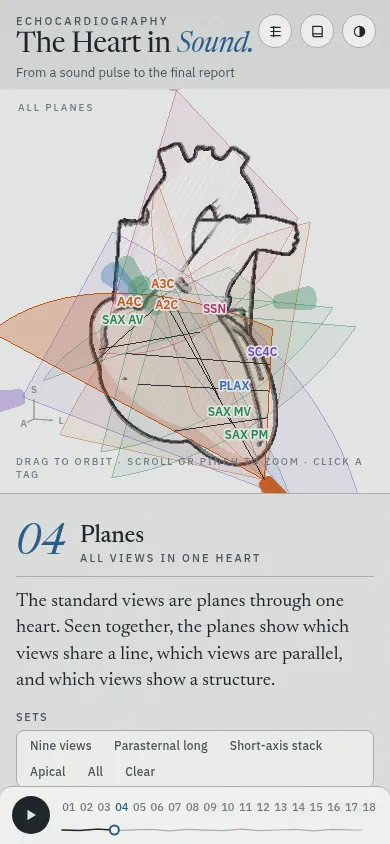
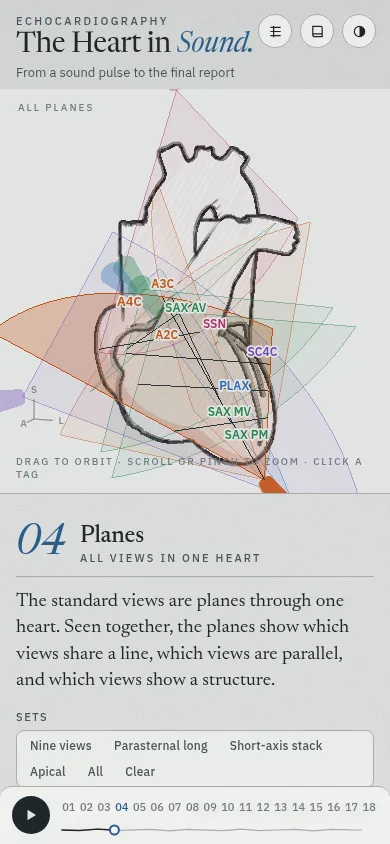
Draw the great-vessel short axis as ASE shows it; turn the aortic valve into place
- The beam now comes from the left sternal border, in front of the aortic
  root. Before, it reached the root from the patient's left side, so the
  image was turned about 50 degrees and the atria sat in the wrong places.
- Aortic valve level: through the shut cusps where they meet, leaning 28
  degrees toward the right and back so it cuts this model's left atrium.
  RVOT in front, tricuspid valve upper left, pulmonic valve right, right
  atrium left, left atrium below, atrial septum between (ASE 2019, 2.8).
- Great-vessel level: 1.4 cm higher, leaning 27 degrees: round aorta, PV,
  trunk and both branches (2.7). Zoomed valve: square to the root, a Y,
  cusps labelled RCC top, LCC right, NCC lower left (2.9).
- The valve model faced its commissures at the coronary origins. It is
  turned 60 degrees about its own axis, so the right coronary cusp faces
  the RVOT and each coronary artery leaves its own sinus; the root's own
  systolic and amyloid motion stays with the root (affine fit).

Claude-Session: https://claude.ai/code/session_01NtQNVy8YQ5NUAw3xwF3MnN

diff --git a/src/echo.js b/src/echo.js
@@ -118,48 +118,61 @@ export function viewGeometry(anat, key) {
       r = perp(perp(bif.clone().sub(pv), n0), d);
       break;
     }
-    case 'psax_av': case 'psax_tv': {
-      // square to the aortic root, through the valve: the three cusps in cross-section
+    case 'psax_av': case 'psax_avz': case 'psax_tv': case 'psax_pa': case 'psax_cor': {
+      // The great-vessel levels (ASE 2019, Table 2, rows 2.7-2.10). The probe lies in front of the
+      // aortic root and a little to its left, at the left sternal border; the beam runs back,
+      // a little to the right and down. Screen-right is the patient's left. Each level is a
+      // plane through the aortic root, turned from square to it where the level needs.
       const n0 = anat.aorticRoot.clone();
-      d = perp(Y.clone().negate(), n0);
-      r = perp(perp(X, n0), d);
-      O = av.clone().addScaledVector(d, -7.4);
-      if (spec.plane === 'psax_tv') {
-        // same plane, the sector steered medially onto the tricuspid valve
-        const t = tv.clone().addScaledVector(n0, -tv.clone().sub(av).dot(n0));
-        d = t.clone().sub(O).normalize();
-        r = perp(perp(X, n0), d);
+      const e1 = perp(BODY.left, n0), e2 = n0.clone().cross(e1);
+      // n0 turned by tilt degrees toward direction az round the root (az 180: the patient's right)
+      const turned = (tilt, az) => {
+        const t = THREE.MathUtils.degToRad(tilt), a = THREE.MathUtils.degToRad(az);
+        return n0.clone().multiplyScalar(Math.cos(t)).addScaledVector(e1, Math.sin(t) * Math.cos(a)).addScaledVector(e2, Math.sin(t) * Math.sin(a)).normalize();
+      };
+      const probe = (C, n, dist, aim = V3(-0.45, -0.15, -1)) => {
+        d = perp(aim, n);
+        r = perp(perp(BODY.left, n), d);
+        O = C.clone().addScaledVector(d, -dist);
+      };
+      // the shut cusps meet 0.6 to 1.3 cm above the valve's centre point, highest at the wall
+      if (spec.plane === 'psax_avz') {
+        // zoomed on the valve, square to the root through the free edges: the shut cusps meet
+        // in a Y and each cusp shows whole (the sonographer turns the probe until the valve is round)
+        probe(av.clone().addScaledVector(n0, 0.7), n0, 6.2);
+      } else if (spec.plane === 'psax_pa') {
+        // tilted up from the valve: the aorta above its valve in cross-section, the pulmonic
+        // valve, the trunk and the start of both branches. This model's trunk rises steeply, so
+        // the plane leans 27 degrees from square to the root to follow it to the bifurcation
+        probe(av.clone().addScaledVector(n0, 2.0), turned(27, 252), 6.0, V3(-0.1, -0.1, -1));
+      } else if (spec.plane === 'psax_cor') {
+        // through both coronary origins, as square to the aortic root as that allows; the
+        // probe moves onto this plane from the valve-level position
+        const Lm = VP('lmca'), Rc = VP('rca');
+        const u = Lm.clone().sub(Rc).normalize();
+        const n1 = n0.clone().addScaledVector(u, -n0.dot(u)).normalize();
+        const C = Lm.clone().lerp(Rc, 0.5);
+        probe(av.clone().addScaledVector(n0, 0.62), turned(28, 170), 6.2);
+        O = onPlane(O, C, n1);
+        d = C.clone().sub(O).normalize();
+        r = perp(perp(BODY.left, n1), d);
+      } else {
+        // the aortic valve level: through the shut cusps where they meet, leaning 28 degrees
+        // toward the patient's right and 10 degrees back. Square to the root the plane would pass
+        // above this model's left atrium; leaning, it cuts the atrium below the valve and the
+        // tricuspid and pulmonic valves beside it: AV, LA, RA, TV, RVOT, PV and the atrial septum
+        probe(av.clone().addScaledVector(n0, 0.62), turned(28, 170), 6.2);
+        if (spec.plane === 'psax_tv') {
+          // the tricuspid valve: the plane leans 2 degrees further toward it, the probe stays,
+          // and the sector turns onto the valve
+          const n1 = turned(30, 178);
+          const P0 = onPlane(O, av.clone().addScaledVector(n0, 0.55), n1);
+          const t = onPlane(tv, av.clone().addScaledVector(n0, 0.55), n1);
+          O = P0;
+          d = t.clone().sub(O).normalize();
+          r = perp(perp(BODY.left, n1), d);
+        }
       }
-      break;
-    }
-    case 'psax_pa': {
-      // the great-vessel plane moved up onto the centre of the pulmonic valve and turned 12
-      // degrees toward the valve's long axis (the probe slides about 2 cm), the sector steered
-      // onto the valve and the trunk: a small move from the aortic valve level. In this model
-      // the trunk runs 42 degrees out of the aortic short axis, so the closed valve shows its
-      // three cusps meeting, and the trunk turns back toward the bifurcation.
-      const n0 = anat.aorticRoot.clone();
-      d = perp(Y.clone().negate(), n0);
-      r = perp(perp(X, n0), d);
-      O = av.clone().addScaledVector(d, -7.4);
-      const nPV = perp(n0, PV_AXIS);
-      const n1 = n0.clone().applyAxisAngle(n0.clone().cross(nPV).normalize(), Math.min(n0.angleTo(nPV), THREE.MathUtils.degToRad(12)));
-      O = onPlane(O, pv, n1);
-      d = perp(pv.clone().lerp(VP('paBif'), 0.2).sub(O), n1);
-      r = perp(perp(r, n1), d);
-      break;
-    }
-    case 'psax_cor': {
-      // through both coronary origins, as square to the aortic root as that allows; the
-      // probe moves onto this plane from the great-vessel position
-      const Lm = VP('lmca'), Rc = VP('rca'), root = anat.aorticRoot.clone();
-      const u = Lm.clone().sub(Rc).normalize();
-      const n0 = root.addScaledVector(u, -root.dot(u)).normalize();
-      const C = Lm.clone().lerp(Rc, 0.5);
-      const d0 = perp(Y.clone().negate(), anat.aorticRoot);
-      O = onPlane(av.clone().addScaledVector(d0, -7.4), C, n0);
-      d = C.clone().sub(O).normalize();
-      r = perp(perp(X, n0), d);
       break;
     }
     case 'psax': {
@@ -368,6 +381,36 @@ class MeshData {
   }
 }
 
+/**
+ * Directions of the three aortic cusps from the root's axis, named by where they lie: the
+ * right coronary cusp in front, the non-coronary cusp the more rightward of the other two, the
+ * left coronary cusp the last. Each cusp's belly is its lowest point round the root.
+ */
+function cuspDirs(model) {
+  const mesh = model.heart.meshes.AorticValve;
+  if (!mesh) return null;
+  const A = model.anat, n0 = A.aorticRoot.clone(), av = A.point('av', 0, 0);
+  const e1 = BODY.left.clone().addScaledVector(n0, -n0.x).normalize(), e2 = n0.clone().cross(e1);
+  const p = mesh.geometry.attributes.position.array;
+  const low = new Float32Array(72).fill(Infinity);
+  for (let i = 0; i < p.length; i += 3) {
+    const x = p[i] - av.x, y = p[i + 1] - av.y, z = p[i + 2] - av.z;
+    const a = Math.atan2(x * e2.x + y * e2.y + z * e2.z, x * e1.x + y * e1.y + z * e1.z);
+    const b = Math.floor(((a + Math.PI) / (2 * Math.PI)) * 72) % 72;
+    low[b] = Math.min(low[b], x * n0.x + y * n0.y + z * n0.z);
+  }
+  let b0 = 0;
+  const sum = (b) => low[b % 72] + low[(b + 24) % 72] + low[(b + 48) % 72];
+  for (let b = 1; b < 24; b++) if (sum(b) < sum(b0)) b0 = b;
+  const dirs = [0, 1, 2].map((k) => {
+    const a = ((b0 + 0.5 + 24 * k) / 72) * 2 * Math.PI - Math.PI;
+    return e1.clone().multiplyScalar(Math.cos(a)).addScaledVector(e2, Math.sin(a));
+  });
+  const R = dirs.slice().sort((u, v) => v.dot(BODY.ant) - u.dot(BODY.ant))[0];
+  const [N, L] = dirs.filter((u) => u !== R).sort((u, v) => u.dot(BODY.left) - v.dot(BODY.left));
+  return { rcc: R, ncc: N, lcc: L };
+}
+
 // chambers and vessels may sit a little further from the plane than walls and valves and still show
 const ECHO_ONLY = new Set(['liver', 'hv', 'abdao', 'celiac', 'sma', 'ivcl']);
 // full names for the tags on the cross-section
@@ -376,7 +419,7 @@ const FULL = {
   MV: 'Mitral valve', TV: 'Tricuspid valve', AV: 'Aortic valve', PV: 'Pulmonic valve', Ao: 'Aorta', LVOT: 'LV outflow tract', RVOT: 'RV outflow tract',
   PA: 'Pulmonary artery', 'main PA': 'Main pulmonary artery', RPA: 'Right pulmonary artery', LPA: 'Left pulmonary artery', IVC: 'Inferior vena cava',
   SVC: 'Superior vena cava', 'desc Ao': 'Descending aorta', 'ascending Ao': 'Ascending aorta', 'descending Ao': 'Descending aorta', arch: 'Aortic arch',
-  LMCA: 'Left main coronary artery', RCA: 'Right coronary artery', 'Ao root': 'Aortic root', SMA: 'Superior mesenteric artery', 'abdominal Ao': 'Abdominal aorta',
+  LMCA: 'Left main coronary artery', RCA: 'Right coronary artery', 'Ao root': 'Aortic root', RCC: 'Right coronary cusp', LCC: 'Left coronary cusp', NCC: 'Non-coronary cusp', SMA: 'Superior mesenteric artery', 'abdominal Ao': 'Abdominal aorta',
 };
 const ROOMY = new Set(['la', 'ra', 'lv', 'rv', 'rvant', 'rvot', 'mpa', 'ao', 'asc', 'arch', 'desc', 'ivc', 'ivcl', 'rpa', 'lpa', 'svc', 'abdao']);
 
@@ -974,6 +1017,12 @@ export class EchoView {
     an.sma = V3(...ABD.sma.pts[2]);
     an.hv = V3(...ABD.mhv.pts[1]);
     an.ivcl = V3(...ABD.ivc.pts[1]);
+    // the aortic cusps, in the plane where the shut cusps meet (0.7 cm up the root)
+    const cusps = this.cusps || (this.cusps = cuspDirs(this.model));
+    if (cusps) {
+      const C = an.av.clone().addScaledVector(A.aorticRoot, 0.7);
+      for (const [k, dir] of Object.entries(cusps)) an[k] = C.clone().addScaledVector(dir, 0.6);
+    }
     const bif = V3(...VESSELS.paBif);
     an.mpa = an.pv.clone().lerp(bif, 0.5);
     an.rpa = bif.clone().addScaledVector(BODY.left, -2.6).addScaledVector(BODY.ant, -0.8);

diff --git a/src/views.js b/src/views.js
@@ -34,14 +34,20 @@ export const VIEWS = {
   rv_out: V({ win: 'plax', short: 'RVOT', name: 'RV outflow', lab: 'PLAX_RV_outflow', plane: 'rv_out', depth: 13, cor: false,
     labels: [['rvot', 'RVOT'], ['pv', 'PV'], ['mpa', 'main PA']] }),
   // ---- parasternal short axis
-  psax_av: V({ win: 'psax', short: 'PSAX', name: 'Parasternal short axis, aortic valve level', lab: 'PSAX_(level_great_vessels)', plane: 'psax_av', depth: 14,
-    labels: [['av', 'AV'], ['la', 'LA'], ['ra', 'RA'], ['rvot', 'RVOT'], ['tv', 'TV'], ['mpa', 'PA']] }),
-  psax_pa: V({ win: 'psax', short: 'PSAX', name: 'Parasternal short axis, pulmonic valve and pulmonary artery', lab: 'PSAX_(level_great_vessels)_focus_on_PV_and_PA', plane: 'psax_pa', depth: 14,
-    labels: [['pv', 'PV'], ['mpa', 'main PA'], ['rpa', 'RPA'], ['lpa', 'LPA'], ['av', 'AV']] }),
+  // the great-vessel levels, as ASE draws them (Mitchell 2019, Table 2, rows 2.7-2.10): at the aortic
+  // valve, the RVOT across the front from the tricuspid to the pulmonic valve, the valve in the
+  // middle, the right atrium on the left, the left atrium below and the atrial septum between
+  psax_av: V({ win: 'psax', short: 'PSAX', name: 'Parasternal short axis, aortic valve level', lab: 'PSAX_(level_great_vessels)', plane: 'psax_av', depth: 13,
+    labels: [['av', 'AV'], ['la', 'LA'], ['ra', 'RA'], ['rvot', 'RVOT'], ['tv', 'TV'], ['pv', 'PV'], ['ias', 'IAS']] }),
+  // tilted up: the aorta above the valve in cross-section, the pulmonic valve, the trunk and
+  // the start of both branches
+  psax_pa: V({ win: 'psax', short: 'PSAX', name: 'Parasternal short axis, pulmonic valve and pulmonary artery', lab: 'PSAX_(level_great_vessels)_focus_on_PV_and_PA', plane: 'psax_pa', depth: 13,
+    labels: [['ao', 'Ao'], ['rvot', 'RVOT'], ['pv', 'PV'], ['mpa', 'PA'], ['rpa', 'RPA'], ['lpa', 'LPA']] }),
   psax_tv: V({ win: 'psax', short: 'PSAX', name: 'Parasternal short axis, tricuspid valve', lab: 'PSAX_(level_great_vessels)_focus_on_TV', plane: 'psax_tv', depth: 14,
     labels: [['tv', 'TV'], ['ra', 'RA'], ['rvot', 'RV'], ['av', 'AV']] }),
-  psax_avz: V({ win: 'psax', short: 'PSAX', name: 'Parasternal short axis, zoomed aortic valve', lab: 'PSAX_(level_great_vessels)_zoomed_AV', plane: 'psax_av', depth: 14, zoom: { at: 'av', w: 5 },
-    labels: [['av', 'AV']] }),
+  // zoomed on the valve and turned until it is round: the three cusps by name
+  psax_avz: V({ win: 'psax', short: 'PSAX', name: 'Parasternal short axis, zoomed aortic valve', lab: 'PSAX_(level_great_vessels)_zoomed_AV', plane: 'psax_avz', depth: 13, zoom: { at: 'av', w: 5 },
+    labels: [['rcc', 'RCC'], ['lcc', 'LCC'], ['ncc', 'NCC']] }),
   psax_cor: V({ win: 'psax', short: 'PSAX', name: 'Parasternal short axis, coronary artery origins', lab: null, plane: 'psax_cor', depth: 14, zoom: { at: 'avroot', w: 5 },
     labels: [['lmca', 'LMCA'], ['rca', 'RCA'], ['avroot', 'Ao root']] }),
   psax_mv: V({ win: 'psax', short: 'PSAX', name: 'Parasternal short axis, mitral valve level', lab: 'PSAX_(level_of_MV)', plane: 'psax', level: 0.72, depth: 14,
@@ -216,7 +222,7 @@ export const MOVE = {
   psax_av: 'From PLAX, rotate 90° clockwise; marker toward the left shoulder',
   psax_pa: 'From the aortic valve level, tilt superiorly',
   psax_tv: 'At the aortic valve level, narrow the sector onto the tricuspid valve',
-  psax_avz: 'At the aortic valve level, zoom on the valve',
+  psax_avz: 'At the aortic valve level, zoom on the valve and tilt until it is round',
   psax_cor: 'At the aortic valve level, tilt slightly toward the head and zoom on the aortic root',
   psax_mv: 'From the aortic valve level, tilt inferiorly',
   psax_pm: 'Tilt further, just below the mitral leaflet tips',

diff --git a/src/gl/heart.js b/src/gl/heart.js
@@ -94,7 +94,64 @@ export async function loadHeart(url, opts = {}) {
     for (const o of drop) o.parent.remove(o);
     for (const o of add) gltf.scene.add(o);   // both models share one frame
   }
+  // a last change to the meshes before the heart is built (model3d.js: the aortic valve's turn)
+  if (opts.prepare) {
+    const meshes = {};
+    gltf.scene.traverse((o) => { if (o.isMesh) meshes[o.name] = o; });
+    opts.prepare(meshes);
+  }
   return new Heart(gltf.scene);
+}
+
+/**
+ * Turn the aortic valve about its own axis (the root's axis through centre c) by deg. The valve
+ * model is three-fold symmetric, so the turn moves cusps to where commissures were. Its shape
+ * targets turn with it; the targets that carry the root's own motion (systole, amyloid) are
+ * split into the root's motion, an affine fit that stays where it is, and the valve's own change,
+ * which turns.
+ */
+export function turnValve(mesh, c, axis, deg) {
+  const g = mesh.geometry, P = g.attributes.position, n = P.count;
+  const q = new THREE.Quaternion().setFromAxisAngle(axis.clone().normalize(), THREE.MathUtils.degToRad(deg));
+  const R = new THREE.Matrix4().makeRotationFromQuaternion(q);
+  const old = Float32Array.from(P.array);
+  const v = new THREE.Vector3();
+  for (let i = 0; i < n; i++) { v.fromBufferAttribute(P, i).sub(c).applyQuaternion(q).add(c); P.setXYZ(i, v.x, v.y, v.z); }
+  P.needsUpdate = true;
+  const turnVectors = (attr) => { for (let i = 0; i < attr.count; i++) { v.fromBufferAttribute(attr, i).applyQuaternion(q); attr.setXYZ(i, v.x, v.y, v.z); } attr.needsUpdate = true; };
+  if (g.attributes.normal) turnVectors(g.attributes.normal);
+  const follow = new Set(['amyloid', 'systole', 'amyloid_systole']);
+  const MP = g.morphAttributes.position || [], MN = g.morphAttributes.normal || [];
+  for (const [name, k] of Object.entries(mesh.morphTargetDictionary || {})) {
+    const T = MP[k];
+    if (!T) continue;
+    if (!follow.has(name)) turnVectors(T);
+    else {
+      // least squares: t_i = M [p_i - c; 1], M 3 x 4
+      const XtX = new Array(16).fill(0), XtV = [new Array(4).fill(0), new Array(4).fill(0), new Array(4).fill(0)];
+      for (let i = 0; i < n; i++) {
+        const x = [old[3 * i] - c.x, old[3 * i + 1] - c.y, old[3 * i + 2] - c.z, 1];
+        for (let a = 0; a < 4; a++) {
+          for (let b = 0; b < 4; b++) XtX[a * 4 + b] += x[a] * x[b];
+          XtV[0][a] += x[a] * T.getX(i); XtV[1][a] += x[a] * T.getY(i); XtV[2][a] += x[a] * T.getZ(i);
+        }
+      }
+      const inv = new THREE.Matrix4().fromArray(XtX).invert().elements;   // symmetric: order does not matter
+      const M = XtV.map((row) => [0, 1, 2, 3].map((b) => row.reduce((s0, r0, a) => s0 + r0 * inv[a * 4 + b], 0)));
+      const fit = (x, y, z) => M.map((m) => m[0] * x + m[1] * y + m[2] * z + m[3]);
+      const res = new THREE.Vector3();
+      for (let i = 0; i < n; i++) {
+        const f0 = fit(old[3 * i] - c.x, old[3 * i + 1] - c.y, old[3 * i + 2] - c.z);
+        res.set(T.getX(i) - f0[0], T.getY(i) - f0[1], T.getZ(i) - f0[2]).applyMatrix4(R);
+        const f1 = fit(P.getX(i) - c.x, P.getY(i) - c.y, P.getZ(i) - c.z);
+        T.setXYZ(i, f1[0] + res.x, f1[1] + res.y, f1[2] + res.z);
+      }
+      T.needsUpdate = true;
+    }
+    if (MN[k]) turnVectors(MN[k]);
+  }
+  g.computeBoundingBox();
+  g.computeBoundingSphere();
 }
 
 export class Heart {

diff --git a/index.html b/index.html
@@ -366,7 +366,7 @@
         <p>The probe stays in the window of the focused view, so the free plane is compared only with the standard views of that window. A plane from another window can cut the heart almost the same way (the apical and subcostal four-chamber planes do), but it is a different view. The comparison uses the angle between the planes, with the marker on the same side, and how far the view's centre lies off the free plane. The same plane with the marker on the other side gives a mirrored image, and the panel says so. Within 20° and 3 cm the nearest view is marked; within 10° and 1.5 cm the plane settles onto it when you let go of the control.</p>
         <p><b>Back to the focused view</b> moves the probe in steps: slide and sweep first, then tilt and rock, then rotate. Each step starts before the previous step ends, so the move does not stop between steps. <b>Go to a view</b> takes the free plane to any standard view. For a view in the same window, the new view becomes the focused view. The controls then show the present plane relative to it and move to zero. For a view in another window, the probe first returns to the focused view. Then it moves across the chest to the new window.</p>
         <h3>What each view shows</h3>
-        <p>The table lists the structures that ASE names for each view on show<span class="cite" data-ref="mitchell2019"></span>. Choose a structure to light the views that contain it. Zoomed and LV-focused views use the plane of their parent view, so the figure shows the parent plane only.</p>
+        <p>The table lists the structures that ASE names for each view on show<span class="cite" data-ref="mitchell2019"></span>. Choose a structure to light the views that contain it. The figure shows each parent view only, not its zoomed or LV-focused variants.</p>
         <h3>Why it matters</h3>
         <ul>
         <li>Confirm a finding in two views that cross it at different angles.</li>

diff --git a/src/model3d.js b/src/model3d.js
@@ -4,15 +4,23 @@ let modelP = null;
 export function loadModel() {
   if (!modelP) {
     modelP = (async () => {
-      const [{ loadHeart, Anatomy }, doc] = await Promise.all([
+      const [{ loadHeart, Anatomy, turnValve }, doc] = await Promise.all([
         import('./gl/heart.js'),
         fetch('assets/anatomy.json').then((r) => {
           if (!r.ok) throw new Error(`anatomy: HTTP ${r.status}`);
           return r.json();
         }),
       ]);
-      const heart = await loadHeart('assets/heart.json', { valves: 'assets/valves.json' });
-      return { heart, anat: new Anatomy(doc), doc };
+      const anat = new Anatomy(doc);
+      // The valve model sets the aortic cusps 60 degrees round from where a heart has them: its
+      // commissures face the coronary origins. Turned, the right coronary cusp faces the RV
+      // outflow tract, the left and non-coronary cusps lie behind it on the left and the right,
+      // and each coronary artery leaves its own sinus (ASE 2019, Table 2.9).
+      const prepare = (meshes) => {
+        if (meshes.AorticValve) turnValve(meshes.AorticValve, anat.point('av', 0, 0), anat.aorticRoot, 60);
+      };
+      const heart = await loadHeart('assets/heart.json', { valves: 'assets/valves.json', prepare });
+      return { heart, anat, doc };
     })();
   }
   return modelP;

diff --git a/src/ch/windows.js b/src/ch/windows.js
@@ -16,7 +16,7 @@ const INFO = {
   rv_in: { shows: 'RA, tricuspid valve, RV; IVC and coronary sinus in some', acquire: 'TR color; TR peak velocity by CW' },
   rv_out: { shows: 'RVOT, pulmonic valve, main PA', acquire: 'RVOT PW; pulmonic valve CW; color' },
   psax_av: { shows: 'Aortic valve, LA, RA, tricuspid valve, RVOT, pulmonic valve, atrial septum', acquire: 'Proximal and distal RVOT; TR color and CW' },
-  psax_pa: { shows: 'Aortic root, RA, RVOT, pulmonic valve, main PA and branches', acquire: 'Main PA diameter; RVOT PW; pulmonic CW; PR end-diastolic velocity' },
+  psax_pa: { shows: 'Aorta above the valve, RA, RVOT, pulmonic valve, main PA and branches', acquire: 'Main PA diameter; RVOT PW; pulmonic CW; PR end-diastolic velocity' },
   psax_tv: { shows: 'RA, tricuspid valve, RV inflow, high septum', acquire: 'Tricuspid color; TR CW' },
   psax_avz: { shows: 'Aortic cusps: non-, right and left coronary', acquire: 'Cusp number and motion; color' },
   psax_cor: { shows: 'Aortic root; origins of the left main and right coronary arteries', acquire: 'Where each coronary artery arises (anomalous origin)' },

diff --git a/README.md b/README.md
@@ -42,10 +42,15 @@ On a phone the figure sits above the text and stays in view while the text scrol
 
 Chapter 03 covers the ASE comprehensive transthoracic views (Mitchell 2019, Tables 2.1–2.27). Each view carries the class name from the lab's annotation list (`lab` in `src/views.js`), for example `PLAX_IVS_LVPW_LVIDD`, `PSAX_(level_great_vessels)_focus_on_PV_and_PA`, `Subcostal_IVC`, `SSN_aortic_arch`. Six views have no class in that list: the coronary artery origins, the zoomed tricuspid valve, LV apex and aortic valve (apical), the zoomed atrial septum (subcostal) and the suprasternal short axis.
 
-- **The plane moves between views.** A change of view turns the plane along the shortest rotation while the point it images slides across, so neighbouring views are small moves: the tricuspid valve and zoomed aortic valve views are steers or zooms of the great-vessel short axis, the pulmonic valve view a 12° turn of it toward the valve, and the abdominal aorta is 7° from the IVC plane.
+- **The plane moves between views.** A change of view turns the plane along the shortest rotation while the point it images slides across, so neighbouring views are small moves: the tricuspid valve view leans 2° further than the aortic valve level and steers onto the valve, and the abdominal aorta is 7° from the IVC plane.
+- **The great-vessel short axis (ASE 2019, Table 2, rows 2.7–2.10).** The probe lies in front of the aortic root, a little to its left; the beam runs back, a little to the right and down. At the aortic valve the plane passes through the shut cusps where they meet and leans 28° from square to the root, toward the patient's right and a little back. Square to the root, it would pass above this model's left atrium; in the ASE images the left atrium lies directly behind the valve at this level. Leaning, it shows what ASE lists: the RVOT across the front from the tricuspid to the pulmonic valve, the valve in the middle, the right atrium on the left, the left atrium below and the atrial septum between. The zoomed valve view is square to the root, so the shut cusps meet in a Y, with the right coronary cusp at the top, the left on the right and the non-coronary cusp at the lower left. Tilted 1.4 cm up the root and leaning 27°, the plane shows the aorta above its valve in cross-section, the pulmonic valve, the trunk and both branches.
+- **The aortic valve model is turned 60°.** As supplied, the valve model faced its commissures, not its sinuses, toward the coronary origins. Turned 60° about its own axis (the model has three-fold symmetry), the right coronary cusp faces the RVOT and each coronary artery leaves its own sinus. The targets that carry the root's own motion (systole, amyloid) are split: an affine fit, which is the root's motion, stays where it is, and only the valve's own change turns.
 - **Cross-section.** On by default: the 3D heart is cut on the view plane and seen square to it, turned as the echo is (probe at the top), with the structures named in the margin, as in *The Amyloid Heart*. Turned off, the whole heart shows with the plane through it.
-- **The pulmonic valve.** The RV outflow view runs along the valve's own axis (the principal axis of the valve mesh), turned 10° about it and 3 mm to one side, so it crosses two cusps and the line where they meet: shut, they meet in the middle; open, they lie along the walls of the trunk, which runs on toward the bifurcation. In this model the pulmonary trunk runs 42° out of the aortic short axis, so the great-vessel view for the valve turns 12° toward the valve's axis, where the shut cusps show as a Y. The model's left main runs through a gap in the mesh beside the valve, so the RV outflow view leaves the coronary arteries out, and any coronary section that lies inside a blood pool, clear of the walls, is dropped in every view.
+- **The pulmonic valve.** The RV outflow view runs along the valve's own axis (the principal axis of the valve mesh), turned 10° about it and 3 mm to one side, so it crosses two cusps and the line where they meet: shut, they meet in the middle; open, they lie along the walls of the trunk, which runs on toward the bifurcation. In this model the pulmonary trunk runs 42° out of the aortic short axis and rises steeply to the bifurcation. The model's left main runs through a gap in the mesh beside the valve, so the RV outflow view leaves the coronary arteries out, and any coronary section that lies inside a blood pool, clear of the walls, is dropped in every view.
 - **Below the diaphragm.** The heart model ends at the diaphragm. For the subcostal views, `src/abdomen.js` adds simple shapes to the echo only: a liver moulded to the underside of the heart, the IVC down through it, two hepatic veins, the abdominal aorta with the celiac trunk and the superior mesenteric artery, and the spine. The subcostal four-chamber plane in this model passes above the liver, so that view keeps a liver layer in the near field.
+
+![Chapter 03, parasternal short axis at the aortic valve level: the RVOT in front, the valve in the middle, the right atrium and tricuspid valve on the left, the left atrium below, the pulmonic valve on the right](docs/screenshots/psax.webp)
+
 
 Chapter 04 shows the planes together. The apical views share the LV long axis; the model places the two-chamber plane about 60° from the four- and three-chamber planes, as the ASE rotation describes. The short-axis levels form a parallel stack. The structure table lists what ASE names for each view.
 
@@ -133,5 +138,7 @@ Keys: ← → change chapter, space plays the tour, 1–5 and [ ] step the views
 - Pericardium model swept at 2,001 points: the grades come in order, the pressure in the sac stays at or above the RA pressure through tamponade, and no sign of tamponade turns on before the tamponade grade.
 - Free-plane moves: the inverse of the rotate–tilt–rock order is exact to 4 × 10⁻¹⁴ over 200 random poses. From (rotate −50°, tilt 12°, rock −15°, slide 1.5 cm, sweep −1.0 cm), *Back to the focused view* brought slide and sweep to zero at 1.8 s, tilt and rock at 2.9 s and rotation at 3.6 s (planned: 1.6, 2.7 and 3.5 s). The headless browser drew 4.2 frames a second, so each step came at most one frame late. *Go to a view* re-counted a pose 20° off the four-chamber view as 42°, 8.5°, −10.1° from the two-chamber view, then eased to it; a move to the long axis crossed windows. The picker fits at 390 px.
 - Image: the sweep takes 125 frame times, so 1.2 s a frame at 100 fps and 3.7 s at 33 fps, and the label says so.
+- Great-vessel short axis against ASE 2019 (Table 2, rows 2.7–2.9), view by view: at the aortic valve level the RVOT lies across the front, the tricuspid valve at the upper left, the pulmonic valve at the right, the right atrium on the left, the left atrium below the valve with the atrial septum between; the zoomed valve shows the right coronary cusp at the top, the left on the right and the non-coronary cusp at the lower left; one level up the aorta is round and the trunk runs down its right side to both branches. Before this change the beam reached the root from the patient's left side (6.7 cm left of the valve, 2.7 cm in front), and the plane cut the cusps below where they meet.
+- Aortic valve turn: after the turn the cusp bellies lie at −75°, 45° and 165° round the root, the left main origin within 5° of the left coronary cusp's centre and the right coronary origin 11° from the right coronary cusp's centre (before: both at commissures), and the valve's outer radius is unchanged (1.15 cm). Parasternal long axis, five-chamber and three-chamber frames compared before and after.
 - Citation audit: every cited id resolves to a reference, and every id used in live text also appears in the static text.
 - Earlier checks, still valid: plane changes rendered frame by frame; the free plane settles onto the two-chamber view at −60°, the three-chamber view at −120° and, from the long axis, the short axis at +90°, and a plane from another window never settles; echo images at 1× and 2× device scale; model checks of the diastolic algorithm, aortic stenosis, the mitral gradient across heart rates and the pressure–volume presets.
